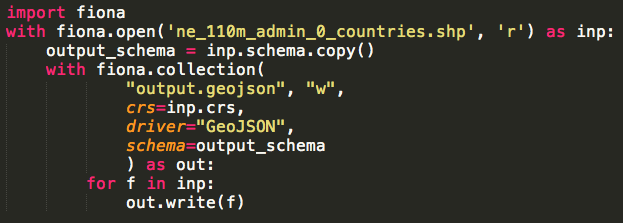
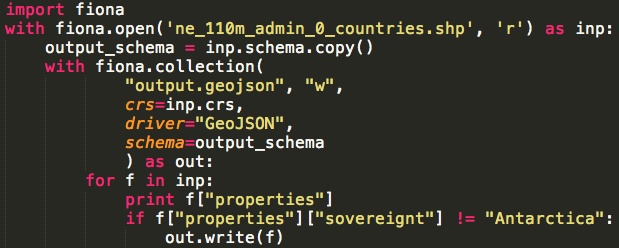
forget antartica

Changed region(s): [[0.0, 0.0, 1.0, 0.9955]]

diff --git a/fionaexample1.py b/fionaexample1.py
@@ -8,16 +8,6 @@ with fiona.open('ne_110m_admin_0_countries.shp', 'r') as inp:
             schema=output_schema
             ) as out:
         for f in inp:
-            out.write(f)
-
-"""
-import fiona
-import pprint
-
-with fiona.open('ne_110m_admin_0_countries/ne_110m_admin_0_countries.shp') as source:
-    source_driver = source.driver
-    source_crs = source.crs
-    source_schema = source.schema
-    rec = next(source)
-    pprint.pprint(rec)
-"""
+            print f["properties"]
+            if f["properties"]["sovereignt"] != "Antarctica":
+                out.write(f)
